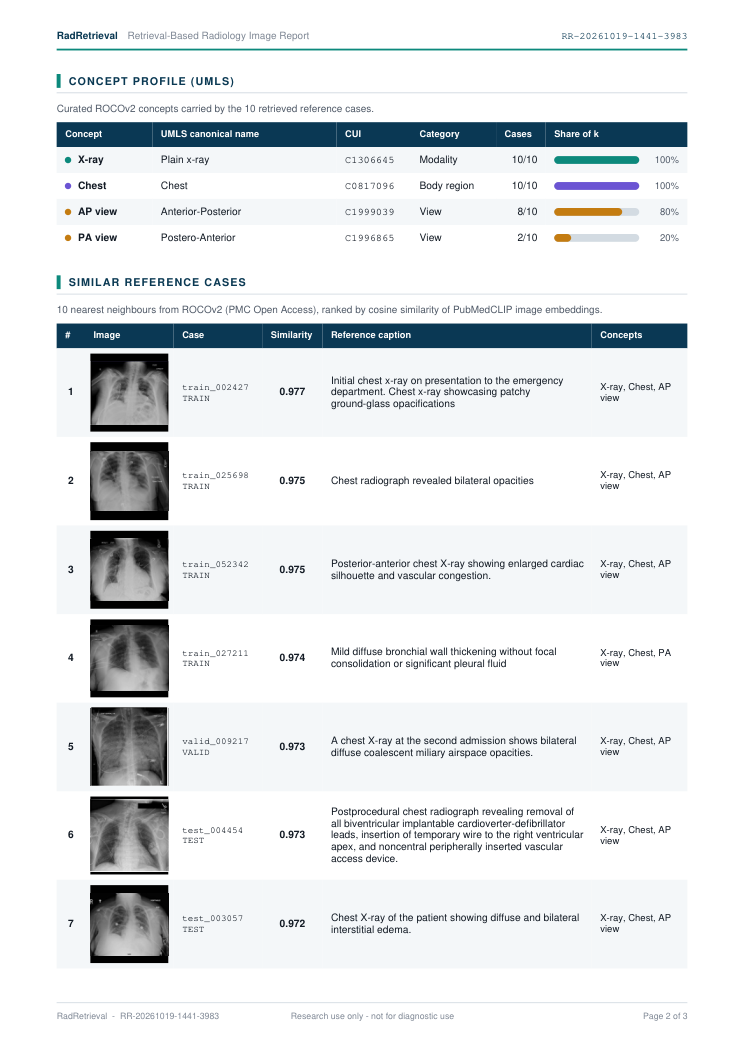
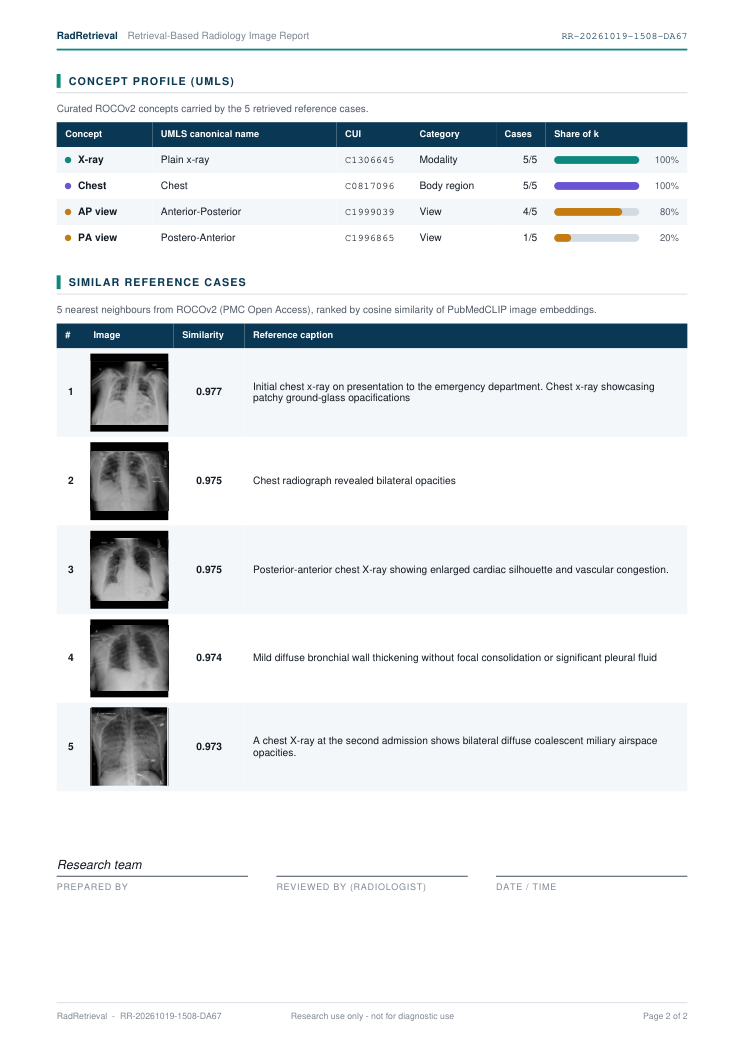
Simplify results UI and report table; default k = 5
- Report: drop the Case and Concepts columns from the similar-cases table
- UI: remove the ground-truth caption badge and its explanatory note,
  the results subtitle, and the "cosine" label on top-1 similarity
- Default k is now 5

diff --git a/src/components/Analysis.tsx b/src/components/Analysis.tsx
@@ -1,7 +1,7 @@
 import type { SearchResponse } from "../api";
 import { aggregateConcepts, GROUP_LABEL, modalityConsensus, textModalityMatches, type ConceptGroup } from "../concepts";
 import { CopyButton, formatScore, formatSeconds } from "./ui";
-import { DatabaseIcon, FileTextIcon, SparkIcon } from "./icons";
+import { FileTextIcon, SparkIcon } from "./icons";
 
 interface Props {
   response: SearchResponse;
@@ -36,17 +36,20 @@ export function Analysis({ response, elapsedMs, onReport }: Props) {
       </div>
 
       <div className="caption-block">
-        <span className={`source-badge ${response.is_dataset_image ? "is-gt" : "is-gen"}`}>
-          {response.is_dataset_image ? <DatabaseIcon size={14} /> : <SparkIcon size={14} />}
-          {response.is_dataset_image ? "Ground-truth caption · ROCOv2" : "Generated caption · BLIP-ROCO"}
-        </span>
+        {!response.is_dataset_image && (
+          <span className="source-badge is-gen">
+            <SparkIcon size={14} />
+            Generated caption · BLIP-ROCO
+          </span>
+        )}
         <blockquote className="caption-quote">{caption || "The backend returned no caption."}</blockquote>
         <div className="caption-foot">
-          <p className="note">
-            {response.is_dataset_image
-              ? "This exact image is in the index (cosine > 0.9999), so its dataset caption is shown and the image itself is left out of the results."
-              : "No exact match in the index, so the caption was generated by BLIP fine-tuned on ROCO. It is machine-generated and may be wrong."}
-          </p>
+          {!response.is_dataset_image && (
+            <p className="note">
+              No exact match in the index, so the caption was generated by BLIP fine-tuned on ROCO. It is machine-generated
+              and may be wrong.
+            </p>
+          )}
           <CopyButton text={caption} label="Copy caption" />
         </div>
       </div>
@@ -79,7 +82,6 @@ export function Analysis({ response, elapsedMs, onReport }: Props) {
           <dt>Top-1 similarity</dt>
           <dd>
             <span className="fact-value mono">{formatScore(top1)}</span>
-            <span className="fact-sub">cosine</span>
           </dd>
         </div>
         <div className="fact">

diff --git a/src/report.ts b/src/report.ts
@@ -8,7 +8,6 @@ import {
   aggregateConcepts,
   GROUP_LABEL,
   modalityConsensus,
-  parseConcepts,
   textModalityMatches,
   type ConceptGroup,
   type ConceptStat,
@@ -579,31 +578,23 @@ export async function buildReportPdf(opts: ReportOptions): Promise<ReportResult>
     ...tableBase,
     startY: y,
     rowPageBreak: "avoid",
-    head: [["#", ...(withThumbs ? ["Image"] : []), "Case", "Similarity", "Reference caption", "Concepts"]],
+    head: [["#", ...(withThumbs ? ["Image"] : []), "Similarity", "Reference caption"]],
     body: results.map((r, i) => [
       String(i + 1),
       ...(withThumbs ? [""] : []),
-      `${r.ID.replace("ROCOv2_2023_", "")}\n${r.split.toUpperCase()}`,
       r.score.toFixed(3),
       pdfSafe(r.caption) || "-",
-      parseConcepts(r.concepts_manual)
-        .map((c) => c.label)
-        .join(", ") || "-",
     ]),
     bodyStyles: withThumbs ? { minCellHeight: 25 } : undefined,
     columnStyles: withThumbs
       ? {
           0: { cellWidth: 8, halign: "center", fontStyle: "bold" },
           1: { cellWidth: 25 },
-          2: { cellWidth: 25, font: "courier", fontSize: 7.4 },
-          3: { cellWidth: 17, halign: "center", fontStyle: "bold" },
-          5: { cellWidth: 27, fontSize: 7.6 },
+          2: { cellWidth: 20, halign: "center", fontStyle: "bold" },
         }
       : {
           0: { cellWidth: 8, halign: "center", fontStyle: "bold" },
-          1: { cellWidth: 27, font: "courier", fontSize: 7.4 },
-          2: { cellWidth: 18, halign: "center", fontStyle: "bold" },
-          4: { cellWidth: 30, fontSize: 7.6 },
+          1: { cellWidth: 20, halign: "center", fontStyle: "bold" },
         },
     didDrawCell: (d: CellHookData) => {
       if (d.section !== "body" || d.column.index !== imgCol) return;

diff --git a/src/components/Results.tsx b/src/components/Results.tsx
@@ -19,12 +19,9 @@ export function Results({ results, visible, filter, onFilter, onOpen }: Props) {
   return (
     <section className="results" aria-labelledby="results-title">
       <div className="results-head">
-        <div>
-          <h2 id="results-title" className="results-title">
-            {results.length} similar {results.length === 1 ? "image" : "images"}
-          </h2>
-          <p className="section-meta">Ranked by PubMedCLIP cosine similarity · click an image for details</p>
-        </div>
+        <h2 id="results-title" className="results-title">
+          {results.length} similar {results.length === 1 ? "image" : "images"}
+        </h2>
       </div>
 
       {stats.length > 0 && (

diff --git a/src/styles.css b/src/styles.css
@@ -945,10 +945,6 @@ kbd {
   font-size: 12px;
   font-weight: 600;
 }
-.source-badge.is-gt {
-  background: var(--ok-soft);
-  color: var(--ok);
-}
 .source-badge.is-gen {
   background: var(--warn-soft);
   color: var(--warn);
@@ -964,6 +960,9 @@ kbd {
   letter-spacing: -0.01em;
   text-wrap: pretty;
 }
+.caption-quote:first-child {
+  margin-top: 0;
+}
 
 .caption-foot {
   display: flex;
@@ -977,6 +976,7 @@ kbd {
 }
 .caption-foot .btn {
   flex-shrink: 0;
+  margin-left: auto;
 }
 
 .facts {

diff --git a/src/App.tsx b/src/App.tsx
@@ -14,7 +14,7 @@ import { Results, ResultsSkeleton } from "./components/Results";
 import { EmptyState, ErrorState, LoadingState } from "./components/States";
 
 const K_OPTIONS = [5, 10, 15, 20, 24];
-const DEFAULT_K = 10;
+const DEFAULT_K = 5;
 const MAX_HISTORY = 8;
 
 let nextEntryId = 0;

diff --git a/README.md b/README.md
@@ -15,8 +15,8 @@ The backend is a FastAPI service hosted on Hugging Face Spaces: [`saad003/rad-re
 
 - Drag-and-drop, file picker, or paste an image from the clipboard (`Ctrl+V`)
 - Six one-click samples from the ROCOv2 test split (CT, X-ray, MRI, ultrasound, angiography, PET)
-- Choose how many neighbours to retrieve (k = 5–24)
-- Query analysis: caption source (ground truth vs. generated), modality from neighbour concepts vs. the backend's caption keyword rule, top-1 / mean cosine similarity
+- Choose how many neighbours to retrieve (k = 5–24, default 5)
+- Query analysis: caption (flagged when it is AI-generated), modality from neighbour concepts vs. the backend's caption keyword rule, top-1 / mean cosine similarity
 - Concept profile: how many of the k neighbours carry each UMLS concept, with official ROCOv2 concept names
 - Filter results by concept
 - Detail view with full caption, concepts and CUIs; browse with arrow keys; **"Search with this image"** to pivot the query
@@ -33,7 +33,7 @@ After a search, **Generate report** opens a live preview of an A4 PDF that you c
 2. **Image and findings**: the query image, the caption (labelled as the ROCOv2 reference caption or an AI-generated caption), and an impression derived from the retrieved cases' concepts
 3. **Retrieval summary**: modality, body region and view by concept consensus, the caption-keyword modality (with agreement), and top-1 and mean similarity
 4. **Concept profile (UMLS)**: each concept with its canonical name, CUI, category and share of the k cases
-5. **Similar reference cases**: rank, thumbnail, case ID and split, similarity, caption and concepts
+5. **Similar reference cases**: rank, thumbnail, similarity and caption
 6. **Sign-off** lines, with running headers, page numbers and a "research use only" footer
 
 Case ID and notes reset for each new image. "Prepared by" is kept for the session.
